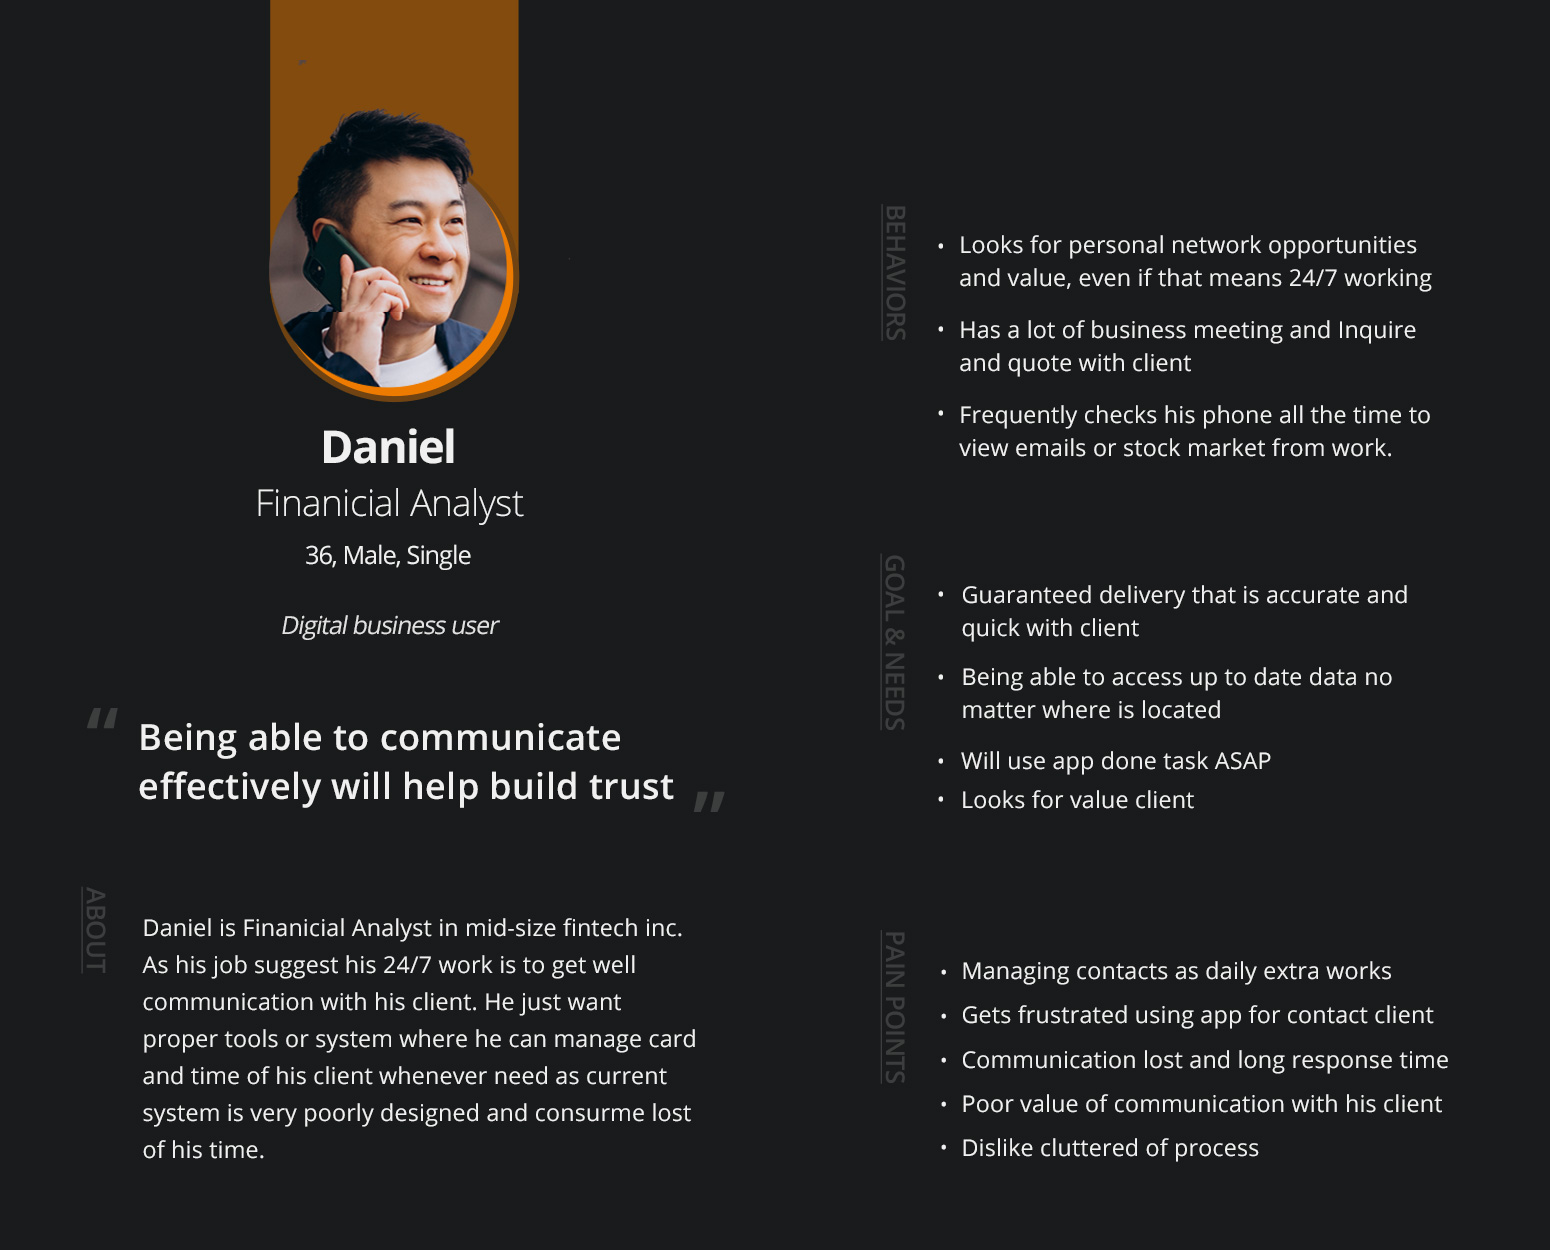
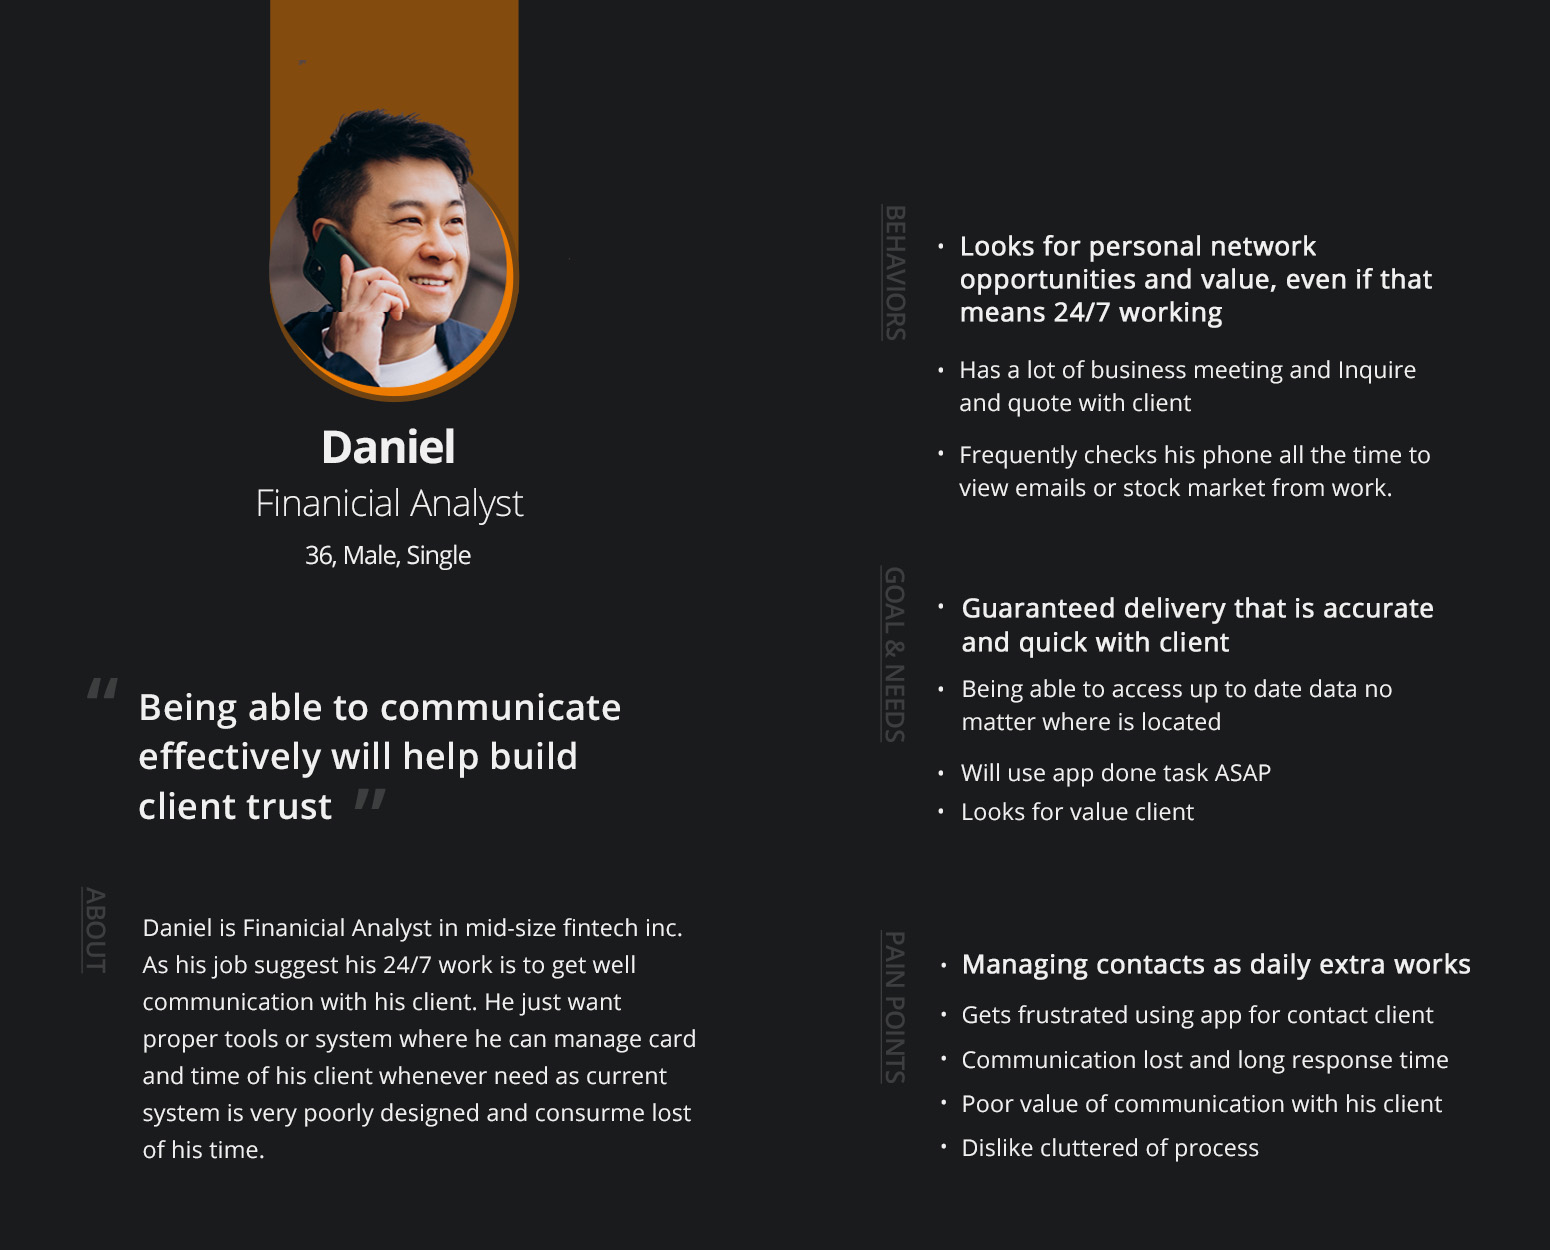
1705_06

diff --git a/rollcase_case_study.html b/rollcase_case_study.html
@@ -161,7 +161,9 @@ body, .body {
     <div class="copy-width spacing-large">
         <p class=" h1 spacing-small">「 DEFINE 」</p>
         <p class=" h1 spacing-title">「 Persona 」</p>
-        <p class=" body spacing-medium">Setup 左2角色, 包括背景、需求和行為, 作為target user, 可以睇下圖 Slider</p>
+        <p class=" body spacing-small">Setup 左2角色, 包括背景、需求和行為, 作為target user, 可以睇下圖 Slider</p>
+        <p class=" body spacing-small">Daniel: 能夠有效地溝通將有助於建立客戶信任</p>
+        <p class=" body spacing-medium">Johnny: 溝通和時間管理對於有效決策同樣重要</p>
     </div>
 
     <div class="copy-width spacing-large">
